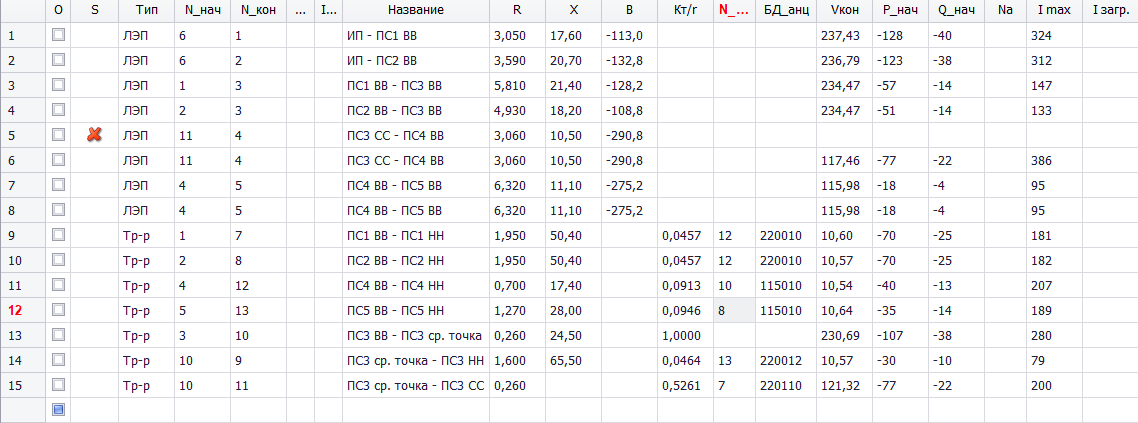
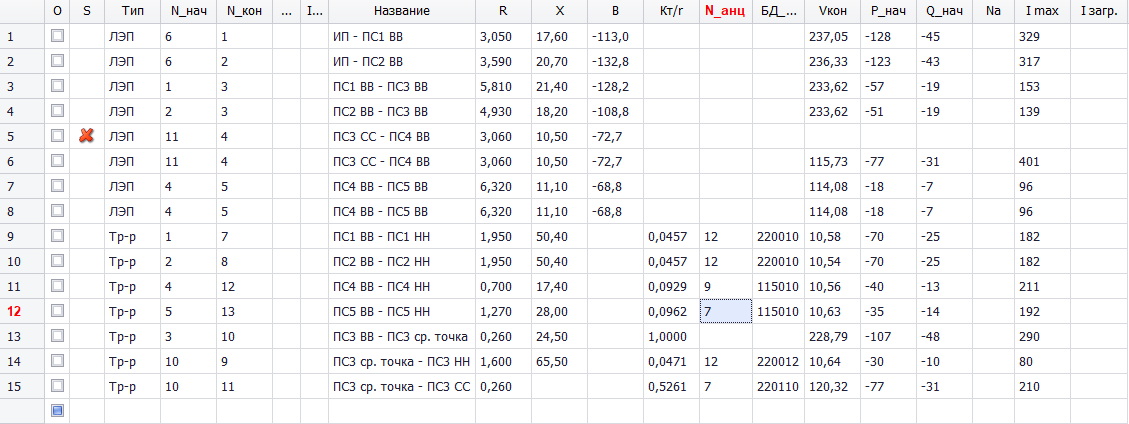
исправил анализ данных (9 раздел)

diff --git a/tex/90-analiz_dannix.tex b/tex/90-analiz_dannix.tex
@@ -158,19 +158,19 @@
 		№ ПС & 3 (РПН) & 3 (ЛРТ) & 1 & 2 & 4 & 5 \\ \hline
 		Пределы регулирования & \(\pm 6\times 2\%\) & \(\pm 10\times 1,5\%\) & \(\pm 8\times 1,5\%\) & \(\pm 8\times 1,5\%\) & \(\pm 9\times 1,78\%\) & \(\pm 9\times 1,78\%\) \\ \hline
 		\(k_\textup{т.ном}\) & 0,526 & 0,0478 & 0,0478 & 0,0478 & 0,0913 & 0,0913 \\ \hline
-		\(k_\textup{т.рег}\) & 0,526 & 0,0464 & 0,0457 & 0,0457 & 0,0897 & 0,0913 \\ \hline
-		\(n_\textup{отв}\) & 0 & 2 & 3 & 3 & 1 & 0 \\ \hline
-		\(U_\textup{НН(СН)}\), кВ & 122,1 & 10,64 & 10,61 & 10,58 & 10,62 & 10,55 \\ \hline
+		\(k_\textup{т.рег}\) & 0,526 & 0,0464 & 0,0457 & 0,0457 & 0,0913 & 0,0929 \\ \hline
+		\(n_\textup{отв}\) & 0 & 2 & 3 & 3 & 0 & -1 \\ \hline
+		\(U_\textup{НН(СН)}\), кВ & 122,77 & 10,52 & 10,59 & 10,55 & 10,65 & 10,55 \\ \hline
 	\end{tabularx}
 \end{table}
 
 Анализируя данные, приведенные в табл. \ref{tab:пв_отрег}, можно сделать вывод о достаточности регулировочного диапазона устройств РПН и ЛРТ трансформаторов и автотрансформаторов и о приемлемости уровней напряжения на шинах 10 кВ понижающих ПС в режиме НБ.
 
 Значение реактивной мощности \(Q_\textup{г}\), генерируемой сетью, оказалось меньше значения располагаемой мощности \(Q_{\textup{расп}\Sigma}\):
-\[Q_{\textup{расп}\Sigma} = 87\; \textup{МВар} > Q_\textup{г} = 69,2\; \textup{МВар}\]
+\[Q_{\textup{расп}\Sigma} = 87\; \textup{МВар} > Q_\textup{г} = 83,4\; \textup{МВар}\]
 
 Суммарные потери активной мощности в проектируемой сети составляют:
-\[\Delta P_{\Sigma \%} = \frac{P_\textup{г} - \Sigma P_\textup{нб}}{\Sigma P_\textup{нб}}\cdot 100\% = \frac{249,7 - 245}{245}\cdot 100\% = 1,92\; \%,\]
+\[\Delta P_{\Sigma \%} = \frac{P_\textup{г} - \Sigma P_\textup{нб}}{\Sigma P_\textup{нб}}\cdot 100\% = \frac{249,97 - 245}{245}\cdot 100\% = 2,03\; \%,\]
 где \(P_\textup{г}\) "--- значение активной мощности, выдаваемое в спроектированную сеть с шин 220 кВ ПС К.
 
 Значение суммарных потерь активной мощности в проектируемой сети не превышает значение \((4 \div 5) \%\), характерное для сетей 110 "--- 220 кВ \cite{глазунов_шведов}.
@@ -188,15 +188,15 @@
 		№ ПС & 3 (РПН) & 3 (ЛРТ) & 1 & 2 & 4 & 5 \\ \hline
 		Пределы регулирования & \(\pm 6\times 2\%\) & \(\pm 10\times 1,5\%\) & \(\pm 8\times 1,5\%\) & \(\pm 8\times 1,5\%\) & \(\pm 9\times 1,78\%\) & \(\pm 9\times 1,78\%\) \\ \hline
 		\(k_\textup{т.ном}\) & 0,526 & 0,0478 & 0,0478 & 0,0478 & 0,0913 & 0,0913 \\ \hline
-		\(k_\textup{т.рег}\) & 0,5366 & 0,0464 & 0,0457 & 0,0464 & 0,0864 & 0,0864 \\ \hline
-		\(n_\textup{отв}\) & -1 & 2 & 3 & 2 & 3 & 3 \\ \hline
-		\(U_\textup{НН(СН)}\), кВ & 116,56 & 10,0 & 9,86 & 10,0 & 9,92 & 9,84 \\ \hline
+		\(k_\textup{т.рег}\) & 0,5366 & 0,0464 & 0,0464 & 0,0464 & 0,0881 & 0,0881 \\ \hline
+		\(n_\textup{отв}\) & -1 & 2 & 2 & 2 & 2 & 2 \\ \hline
+		\(U_\textup{НН(СН)}\), кВ & 115,26 & 9,89 & 9,99 & 9,97 & 9,95 & 9,86 \\ \hline
 	\end{tabularx}
 \end{table}
 
 Анализируя данные, приведенные в табл. \ref{tab:нм_отрег}, можно сделать вывод о достаточности регулировочного диапазона устройств РПН и ЛРТ трансформаторов и автотрансформаторов и о приемлемости уровней напряжения на шинах 10 кВ понижающих ПС в режиме НМ.
 
-Значение потребляемой сетью реактивной мощности \(Q_\textup{г} = 12,3\) МВар имеет положительный знак, что означает отсутствие недопустимого перетока мощности из проектируемой сети в систему.
+Значение потребляемой сетью реактивной мощности \(Q_\textup{г} = 24,4\) МВар имеет положительный знак, что означает отсутствие недопустимого перетока мощности из проектируемой сети в систему.
 
 \section{Анализ послеаварийного режима}
 
@@ -211,8 +211,8 @@
 		№ ПС & 3 (РПН) & 3 (ЛРТ) & 1 & 2 & 4 & 5 \\ \hline
 		Пределы регулирования & \(\pm 6\times 2\%\) & \(\pm 10\times 1,5\%\) & \(\pm 8\times 1,5\%\) & \(\pm 8\times 1,5\%\) & \(\pm 9\times 1,78\%\) & \(\pm 9\times 1,78\%\) \\ \hline
 		\(k_\textup{т.ном}\) & 0,526 & 0,0478 & 0,0478 & 0,0478 & 0,0913 & 0,0913 \\ \hline
-		\(k_\textup{т.рег}\) & 0,5577 & 0,0493 & 0,0500 & 0,0471 & 0,0897 & 0,0929 \\ \hline
-		\(n_\textup{отв}\) & -3 & -2 & -3 & 1 & 1 & -1 \\ \hline
+		\(k_\textup{т.рег}\) & 0,5682 & 0,0507 & 0,0514 & 0,0478 & 0,0913 & 0,0929 \\ \hline
+		\(n_\textup{отв}\) & -4 & -4 & -5 & 0 & 0 & -1 \\ \hline
 		\(U_\textup{НН(СН)}\), кВ & 121,11 & 10,55 & 10,50 & 10,53 & 10,53 & 10,64 \\ \hline
 	\end{tabularx}
 \end{table}
@@ -226,17 +226,17 @@
 		№ ПС & 3 (РПН) & 3 (ЛРТ) & 1 & 2 & 4 & 5 \\ \hline
 		Пределы регулирования & \(\pm 6\times 2\%\) & \(\pm 10\times 1,5\%\) & \(\pm 8\times 1,5\%\) & \(\pm 8\times 1,5\%\) & \(\pm 9\times 1,78\%\) & \(\pm 9\times 1,78\%\) \\ \hline
 		\(k_\textup{т.ном}\) & 0,526 & 0,0478 & 0,0478 & 0,0478 & 0,0913 & 0,0913 \\ \hline
-		\(k_\textup{т.рег}\) & 0,5261 & 0,0464 & 0,0457 & 0,0457 & 0,0913 & 0,0946 \\ \hline
-		\(n_\textup{отв}\) & 0 & 2 & 3 & 3 & 0 & -2 \\ \hline
-		\(U_\textup{НН(СН)}\), кВ & 121,32 & 10,57 & 10,60 & 10,57 & 10,54 & 10,64 \\ \hline
+		\(k_\textup{т.рег}\) & 0,5261 & 0,0471 & 0,0457 & 0,0457 & 0,0929 & 0,0962 \\ \hline
+		\(n_\textup{отв}\) & 0 & 1 & 3 & 3 & -1 & -3 \\ \hline
+		\(U_\textup{НН(СН)}\), кВ & 120,32 & 10,64 & 10,58 & 10,54 & 10,56 & 10,63 \\ \hline
 	\end{tabularx}
 \end{table}
 
 Анализируя данные, приведенные в таблицах \ref{tab:п/ав_220_отрег} и \ref{tab:п/ав_110_отрег}, можно сделать вывод о достаточности регулировочного диапазона устройств РПН и ЛРТ трансформаторов и автотрансформаторов и о приемлемости уровней напряжения на шинах 10 кВ понижающих ПС в послеаварийном режиме.
 
-В послеаварийном режиме на участке сети 220 кВ реактивная мощность \(Q_\textup{г}\), генерируемая сетью, оказалась больше значения располагаемой мощности \(Q_{\textup{расп}\Sigma}\), в то время как на участке сети 110 кВ она оказалась меньше:
-\[Q_{\textup{расп.п/ав.220}\Sigma} = 87\; \textup{МВар} < Q_\textup{г} = 110,5\; \textup{МВар}\]
-\[Q_{\textup{расп.п/ав.110}\Sigma} = 87\; \textup{МВар} > Q_\textup{г} = 70,7\; \textup{МВар}\]
+В послеаварийном режиме на участках сети 220 и 110 кВ реактивная мощность \(Q_\textup{г}\), генерируемая сетью, оказалась больше значения располагаемой мощности \(Q_{\textup{расп}\Sigma}\):
+\[Q_{\textup{расп.п/ав.220}\Sigma} = 87\; \textup{МВар} < Q_\textup{г} = 126,6\; \textup{МВар}\]
+\[Q_{\textup{расп.п/ав.110}\Sigma} = 87\; \textup{МВар} < Q_\textup{г} = 88,2\; \textup{МВар}\]
 
 Так как этот режим работы сети не является долгосрочным и не скажется на экономичности работы сети, допускается отклонение от заданного потребления реактивной мощности \cite{глазунов_шведов}.
 
@@ -253,7 +253,7 @@
 	\begin{tabularx}{\linewidth}{|Z|Z|Z|Z|Z|Z|}
 		\hline
 		Линия & Марка провода & \(I_{max}\), А & \(I_\textup{дл.доп}\), А & \(I_\textup{дл.доп}^{'}\), А & статус проверки \\ \hline
-		К-2 & АС 400/51 & 673 & 825 & 1114 & + \\ \hline
+		К-2 & АС 400/51 & 691 & 825 & 1114 & + \\ \hline
 	\end{tabularx}
 \end{table}
 
@@ -264,7 +264,7 @@
 	\begin{tabularx}{\linewidth}{|Z|Z|Z|Z|Z|Z|}
 		\hline
 		Линия & Марка провода & \(I_{max}\), А & \(I_\textup{дл.доп}\), А & \(I_\textup{дл.доп}^{'}\), А & статус проверки \\ \hline
-		3-4 & АС 240/32 & 386 & 605 & 816,8 & + \\ \hline
+		3-4 & АС 240/32 & 401 & 605 & 816,8 & + \\ \hline
 	\end{tabularx}
 \end{table}
 
